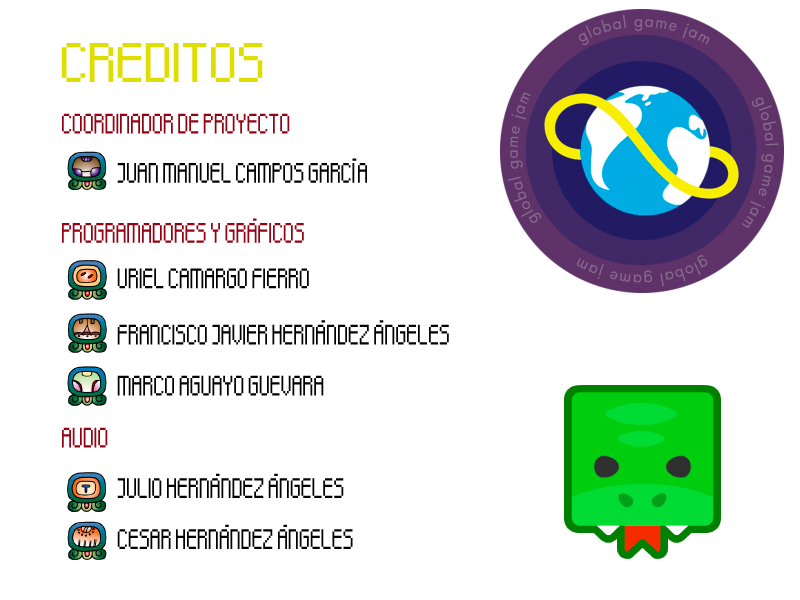
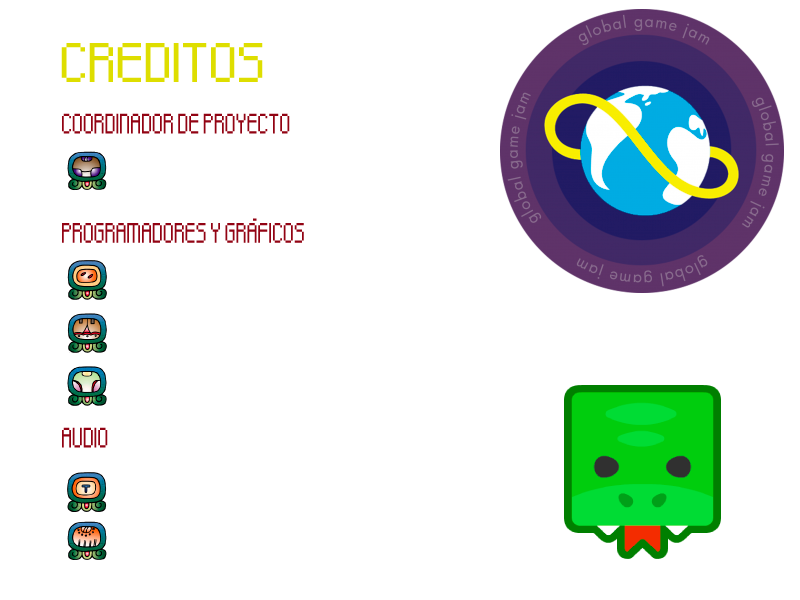
alpha 0.0.1

diff --git a/src/Preloader.ts b/src/Preloader.ts
@@ -32,7 +32,7 @@ module Nahuali {
             this.game.load.image('tiles', 'assets/tileMaps/tile/tiles.png');
             this.game.load.image('bullet', 'assets/bullet.png');
             this.game.load.spritesheet('gameoverImg', 'assets/gameover.png', 570, 135);
-            
+            this.game.load.image('credits', 'assets/creditos.png');
             //this.game.load.audio('main', ['assets/audio/MysticForestHeatleyBros.mp3']);
             this.game.load.audio('level1', ['assets/audio/BambooJungleHeatleyBros.mp3']);
         }

diff --git a/src/Creditos.ts b/src/Creditos.ts
@@ -1,0 +1,16 @@
+module Nahuali{
+    export class Creditos extends Phaser.State {
+        background: Phaser.Sprite;
+        
+        create(){
+            this.background = this.add.sprite(0, 0, 'credits');
+            this.spacePress = this.game.input.keyboard.addKey(Phaser.Keyboard.SPACEBAR);
+            
+            this.spacePress.onDown.addOnce(this.startGame, this);
+        }
+        
+        startGame(){
+            this.game.state.start('GgjSplash', true, false);
+        }
+    }
+}

diff --git a/src/Game.ts b/src/Game.ts
@@ -14,7 +14,7 @@ module Nahuali {
             this.state.add('MainMenu', MainMenu, false);
             this.state.add('Level1', Level1, false);
             this.state.add('GameOver', GameOver, false);
-            
+            this.state.add('Creditos', Creditos, false);
             this.state.add('GgjSplash', GgjSplash, false);
             
             

diff --git a/src/GameOver.ts b/src/GameOver.ts
@@ -62,7 +62,7 @@ module Nahuali {
 
         startGame() {
 
-             this.game.state.start('Level1', true,false);
+             this.game.state.start('Creditos', true,false);
 
              //this.game.state.clearCurrentState();
              
